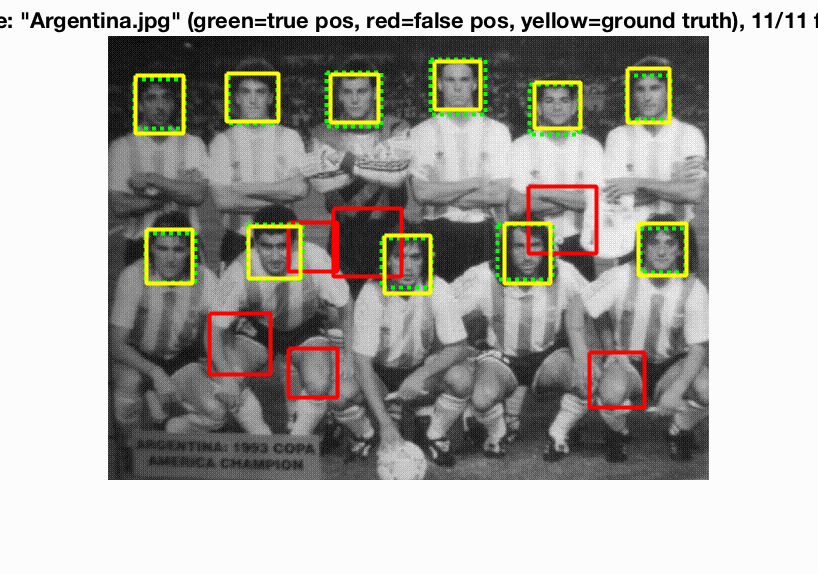
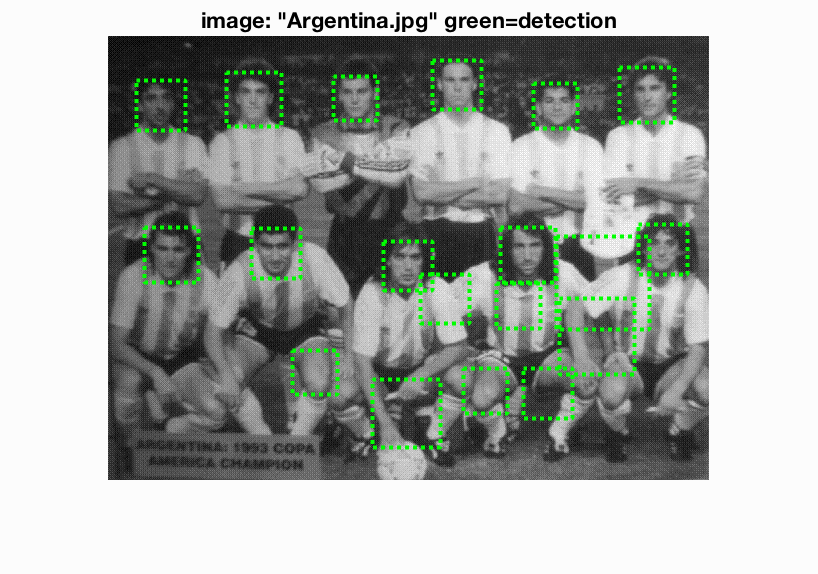
added all non-data files and detections

diff --git a/html/index.html b/html/index.html
@@ -148,12 +148,22 @@ table td img {
 	In order to detect faces at multiple scales of an image, we have adapted our sliding windows to operate on multiple scales of the image.
 
 </p>
+<h3>Extra Credit</h3>
+
+<ul>
+	<li> Implemented Hard Negative Mining (commented out in final submission for time constraints) </li>
+	<li> Augmented positive training data with horizontal reflections of frontal faces </li>
+</ul>
 
 <div style="clear:both">
-<h3>Get Positive Features</h3>
+<h3>Getting Positive And Features</h3>
 
 <p>
 	For getting positive features, I decided to very simply read in images and accumulate a positive dataset of hog descriptions of each of the pre-cropped images.
+	One interesting suggestion that I leveraged was that according to ____, where flipping positive training images of pages leverages the
+	symmetric aspect of faces and therefore augment our training data to a certain extent. By doing so, my training accuracy increased from __ to ___.
+</p>
+<p>
 	However, processing the negative images proved to be more interesting, as I sampled descriptions at varying scales of the provided images.
 	I used a scaling factor of 0.7 as per the suggestion of Professor Hays. After applying the appropriate labels to my dataset,
 	I trained my linear SVM with a lambda of 0.0001. After running my detector several times, I was consistently returning more false positives than I would have liked-
@@ -161,7 +171,6 @@ table td img {
 </p>
 
 <h2>Random window approach for Negative Features</h2>
-The javascript in the <code>highlighting</code> folder is configured to do syntax highlighting in code blocks such as the one below.<p>
 
 <pre><code>
 %My Random Window approach for scanning through neg features
@@ -180,67 +189,56 @@ The javascript in the <code>highlighting</code> folder is configured to do synta
             currScale = currScale * scaleFactor;
         end
 </code></pre>
-
-<h3>Hard Negative Mining</h3>
+<p>Down the road, I believe it would be worth investigating the benefits of fine tuning the final sampling of negative features such that we get a relatively even amount of samples from each range of magnification.
+	For instance, for magnification from 1x to 2x we could take num_sample/2 features, from 2x to 3x we could take num_sample/4, from 3x to 4x we could take num_sample/8, etc... This way
+ we avoid the case where we have a disproportionate number of samples from a single scale range. </p>
+<h2>Hard Negative Mining</h2>
 <p>
-	Although Hard Negative Mining increased my accuracy slightly, it was computationally very expensive to run on the large dataset of negative examples. Nevertheless, this would be something that I would cache in future interations of the detector, as the consistent increase in runtime accuracy is worth the longer initial training duration.
+	As I attempted to Hard Mine Negatives, I realized that the professor's comment about how hardmining negatives doesn't necessarily help with frontal facial detection and linear classifiers.
+	After experimenting with non linear classifiers and realizing how computationally inefficient that route would be, I decided to slightly minimize the effect of these hardmined negatives.
+	I did so by only taking into account the negatives that my classifier was quite confident about (more confident than average confidence of false positives).
+	Also notably, this was relatively computationally very expensive to run on the large dataset of negative examples as well as to lower my detection threshold to properly leverage the benefits of the technique.
+	Nevertheless, this would be something that I would cache in future interations of the detector, as the consistent increase in runtime accuracy is worth the longer initial training duration.
 </p>
 <pre><code>
-[hnBBoxes, hnConf, hnImageIds] = run_detector(non_face_scn_path, w, b, feature_params);
-for i=1:length(hnImageIds)
-    bbox = hnBBoxes(i) % TLCol TLRow BRCol BRRow
-    imgName = hnImageIds(i)
-    imgLoc = fullfile( non_face_scn_path, hnImageIds(i))
-    img = imread(imgLoc);
-    img = single(img)/255;
-    if(size(img,3) > 1)
-        img = rgb2gray(img);
-    end
-    imshow(img(bbox(2):bbox(4), bbox(1):bbox(3)));
-    pause();
-end
+	[~, hnConfs, ~, hnFeatures] = run_detector(non_face_scn_path, w, b, feature_params);
+	hnFeatures = hnFeatures(find(hnConfs > mean(hnConfs)), :);
+	trainingLabels = [trainingLabels; (ones(size(hnFeatures, 1), 1) .* -1)];
+	trainingData = [trainingData; hnFeatures];
+	[w b] = vl_svmtrain(trainingData', trainingLabels, lamda);
 </code></pre>
 
+
+
 <h3>Results in a table</h3>
+I found that incorporating the mining false positives yielded worse results unless I allowed my program to run past the alotted time limit. Therefore I chose to comment it out, but have still shown the implementation above
+With my cell size set to 4, threshold at 1.1, and negative feature selection scaling at 0.6, I was able to achieve an accuracy of 84.2.
+2000 gave 0.816 AP. After bumping up the number of negative samples to 25000, I achieved a 0.845 AP.
+
+<center>
+	<img src="./classDetects.jpg" width="75%" />
 
 <table border=1>
 <tr>
-<td>
-<img src="placeholder.jpg" width="24%"/>
-<img src="placeholder.jpg"  width="24%"/>
-<img src="placeholder.jpg" width="24%"/>
-<img src="placeholder.jpg" width="24%"/>
-</td>
-</tr>
-
-<tr>
-<td>
-<img src="placeholder.jpg" width="24%"/>
-<img src="placeholder.jpg"  width="24%"/>
-<img src="placeholder.jpg" width="24%"/>
-<img src="placeholder.jpg" width="24%"/>
-</td>
+	<td>
+		<img src="./AP845.jpg" width="24%" />
+		<img src="./GR845.jpg" width="24%" />
+		<img src="./HOG845.jpg" width="24%" />
+		<img src="./PLOT845.jpg" width="24%" />
+	</td>
+</tr><tr>
+	<td>
+		<img src="./AP816.jpg" width="24%" />
+		<img src="./GR816.jpg" width="24%" />
+		<img src="./HOG816.jpg" width="24%" />
+		<img src="./PLOT816.jpg" width="24%" />
+	</td>
 </tr>
 
 </table>
-
-<center>
-<p>
-Face template HoG visualization for the starter code. This is completely random, but it should actually look like a face once you train a reasonable classifier.
-<p>
-<img src="hog_template.png">
-<p>
-Precision Recall curve for the starter code.
-<p>
-<img src="average_precision.png">
-<p>
-Example of detection on the test set from the starter code.
-<img src="detections_Argentina.jpg.png">
-
 </center>
 
 <div style="clear:both" >
-<p> 	Lorem ipsum dolor sit amet, consectetur adipisicing elit, sed do eiusmod tempor incididunt ut labore et dolore magna aliqua. Ut enim ad minim veniam, quis nostrud exercitation ullamco laboris nisi ut aliquip ex ea commodo consequat. Duis aute irure dolor in reprehenderit in voluptate velit esse cillum dolore eu fugiat nulla pariatur. Excepteur sint occaecat cupidatat non proident, sunt in culpa qui officia deserunt mollit anim id est laborum.</p>
 </div>
 </body>
 </html>

diff --git a/code/get_random_negative_features.m b/code/get_random_negative_features.m
@@ -37,12 +37,12 @@ function features_neg = get_random_negative_features(non_face_scn_path, feature_
     tempSize = feature_params.template_size;
     D = (tempSize / cellSize)^2 * 31;
 
-    standardSampleSize = ceil(num_samples / num_images / 2);
+    standardSampleSize = ceil(num_samples / num_images);
     features_neg = zeros(num_images, D); %number of samples?
     featIndex = 1;
 
-
-    scaleFactor = 0.7; %0.7 reccomended by Dr.Hays for tradeoff between accuracy and performance
+    % 0.7 reccomended by Dr.Hays for tradeoff between accuracy and performance
+    scaleFactor = 0.7;
 
     for i = 1:num_images
         if mod(i, 20) == 0
@@ -55,29 +55,37 @@ function features_neg = get_random_negative_features(non_face_scn_path, feature_
         [imHeight, imWidth] = size(img);
         % For best performance, you should sample random negative examples at multiple scales.
 
+        % how many nonoverlapping templates can fit in the current image
         uniqueFeatures = floor(imHeight / tempSize) * floor(imWidth / tempSize);
-        featuresSampled = min([standardSampleSize, uniqueFeatures]);
-        % currScale = 1;
+        featuresSampled = min([round(standardSampleSize / 2), uniqueFeatures]);
 
-        while (imHeight >= tempSize && imWidth >= tempSize && featuresSampled > 0)
+        % while currently scaled image can contain at least one nonoverlapping image
+        while (imHeight >= tempSize && imWidth >= tempSize)
 
             for fS = 1 : featuresSampled
                 % top left coordinates of feature
                 r = ceil(rand * (imHeight - tempSize) + 1);
                 c = ceil(rand * (imWidth - tempSize) + 1);
                 imWindow = img(r : r + tempSize - 1, c : c + tempSize - 1);
-                feature = reshape(vl_hog(imWindow, cellSize), 1, []); %linearize into row vec
+                %linearize into row vec
+                feature = reshape(vl_hog(imWindow, cellSize), 1, []);
                 features_neg(featIndex,:) = feature; % append row vec
                 featIndex = featIndex + 1;
             end
             img = imresize(img, scaleFactor);
             [imHeight, imWidth] = size(img);
+            % num nonoverlapping templates that fit in the resized image
             uniqueFeatures = floor(imHeight / tempSize) * floor(imWidth / tempSize);
-            featuresSampled = min([featuresSampled * scaleFactor * scaleFactor, uniqueFeatures]);
-            % currScale = currScale * scaleFactor;
+            featuresSampled = min([featuresSampled * scaleFactor .^ 2, uniqueFeatures]);
+            % if there are no features left to sample because image is scaled too small, then break
+            if featuresSampled <= 0
+                break
+            end
         end
 
     end
+    % filter down to only required number of samples
+    % TODO: implement more even distribution of sampling across ranges of image zoom scales
     if (featIndex - 1 > num_samples)
         features_neg = datasample(features_neg, num_samples, 'Replace', false);
     end

diff --git a/code/proj5.m b/code/proj5.m
@@ -45,14 +45,14 @@ data_path = '../data/';
 train_path_pos = fullfile(data_path, 'caltech_faces/Caltech_CropFaces'); %Positive training examples. 36x36 head crops
 non_face_scn_path = fullfile(data_path, 'train_non_face_scenes'); %We can mine random or hard negatives from here
 test_scn_path = fullfile(data_path,'test_scenes/test_jpg'); %CMU+MIT test scenes
-% test_scn_path = fullfile(data_path,'extra_test_scenes'); %Bonus scenes
+% test_scn_path = fullfile(data_path,'class'); %Bonus scenes
 label_path = fullfile(data_path,'test_scenes/ground_truth_bboxes.txt'); %the ground truth face locations in the test set
 
 %The faces are 36x36 pixels, which works fine as a template size. You could
 %add other fields to this struct if you want to modify HoG default
 %parameters such as the number of orientations, but that does not help
 %performance in our limited test.
-feature_params = struct('template_size', 36, 'hog_cell_size', 4);
+feature_params = struct('template_size', 36, 'hog_cell_size', 3);
 
 
 %% Step 1. Load positive training crops and random negative examples
@@ -60,7 +60,7 @@ feature_params = struct('template_size', 36, 'hog_cell_size', 4);
 
 features_pos = get_positive_features( train_path_pos, feature_params );
 
-num_negative_examples = 15000; %Higher will work strictly better, but you should start with 10000 for debugging
+num_negative_examples = 10000; %Higher will work strictly better, but you should start with 10000 for debugging
 features_neg = get_random_negative_features( non_face_scn_path, feature_params, num_negative_examples);
 
 
@@ -127,8 +127,9 @@ imwrite(hog_template_image, 'visualizations/hog_template.png')
 % more expressive, non-linear classifier that can benefit from more
 
 % trianing data.
-% [~, ~, ~, hnFeatures] = run_detector(non_face_scn_path, w, b, feature_params);
-% trainingLabels = [trainingLabels; ones(size(hnFeatures, 1), 1) .* -1];
+% [~, hnConfs, ~, hnFeatures] = run_detector(non_face_scn_path, w, b, feature_params);
+% hnFeatures = hnFeatures(find(hnConfs > mean(hnConfs)), :);
+% trainingLabels = [trainingLabels; (ones(size(hnFeatures, 1), 1) .* -1)];
 % trainingData = [trainingData; hnFeatures];
 % [w b] = vl_svmtrain(trainingData', trainingLabels, lamda);
 
@@ -156,8 +157,8 @@ imwrite(hog_template_image, 'visualizations/hog_template.png')
 [gt_ids, gt_bboxes, gt_isclaimed, tp, fp, duplicate_detections] = ...
     evaluate_detections(bboxes, confidences, image_ids, label_path);
 
-visualize_detections_by_image(bboxes, confidences, image_ids, tp, fp, test_scn_path, label_path)
-% visualize_detections_by_image_no_gt(bboxes, confidences, image_ids, test_scn_path)
+% visualize_detections_by_image(bboxes, confidences, image_ids, tp, fp, test_scn_path, label_path)
+visualize_detections_by_image_no_gt(bboxes, confidences, image_ids, test_scn_path)
 
 % visualize_detections_by_confidence(bboxes, confidences, image_ids, test_scn_path, label_path);
 

diff --git a/code/run_detector.m b/code/run_detector.m
@@ -80,10 +80,10 @@ function [bboxes, confidences, image_ids, detectedFeats] = ....
         end
 
         iter = 0;
-        while (size(img, 1) > tempSize && size(img, 2) > tempSize)
-            if strcmp(test_scenes(i).name, '251966.jpg')
-                fprintf('\titeration # %d at zoom %d\n', iter, sceneZoom);
-            end
+        while (size(img, 1) > tempSize || size(img, 2) > tempSize)
+            % if strcmp(test_scenes(i).name, '251966.jpg')
+            %     fprintf('\titeration # %d at zoom %d\n', iter, sceneZoom);
+            % end
             % get current image's hog
             imHog = vl_hog(img, cellSize);
 
@@ -94,11 +94,15 @@ function [bboxes, confidences, image_ids, detectedFeats] = ....
                     currHogWindow = reshape(imHog(r : (r + tempsPerCell - 1), c : (c + tempsPerCell - 1), :), 1, D, 1);
                     conf = currHogWindow * w + b;
 
+                        % successfully confident detection results in adding it to our output
                     if (conf >= threshold)
-                        % successfully confident detection results in adding to our running detections
+                        % APPLY ANY ADDITIONAL CASCADE CLASSIFIERS HERE
+                        % get top left and bottom Right pixel in the current scaled dimensions
                         topLeft = ([c r] - 1) .* cellSize;
                         bottomRight = topLeft + tempSize;
+                         % gets original pixel coordinates
                         hogWindow = round([topLeft bottomRight] .* sceneZoom);
+                        % add detection to output
                         sceneBBoxes = [sceneBBoxes; hogWindow];
                         sceneConfs = [sceneConfs; conf];
                         sceneImageIds = [sceneImageIds; test_scenes(i).name];
@@ -106,7 +110,7 @@ function [bboxes, confidences, image_ids, detectedFeats] = ....
                     end
                 end
             end
-
+            % scale image again to run detection window on next gaussian pyramid
             img = imresize(img, scaleFactor);
             sceneZoom = sceneZoom / scaleFactor;
             iter = iter + 1;

diff --git a/code/get_positive_features.m b/code/get_positive_features.m
@@ -58,5 +58,5 @@ function features_pos = get_positive_features(train_path_pos, feature_params)
         hog = vl_hog(img, feature_params.hog_cell_size);
         features_pos(counter,:) = reshape(hog, D, 1, 1);
     end
-    % fprintf('done getting pos feats\n');
+    fprintf('done getting pos feats\n');
 end
